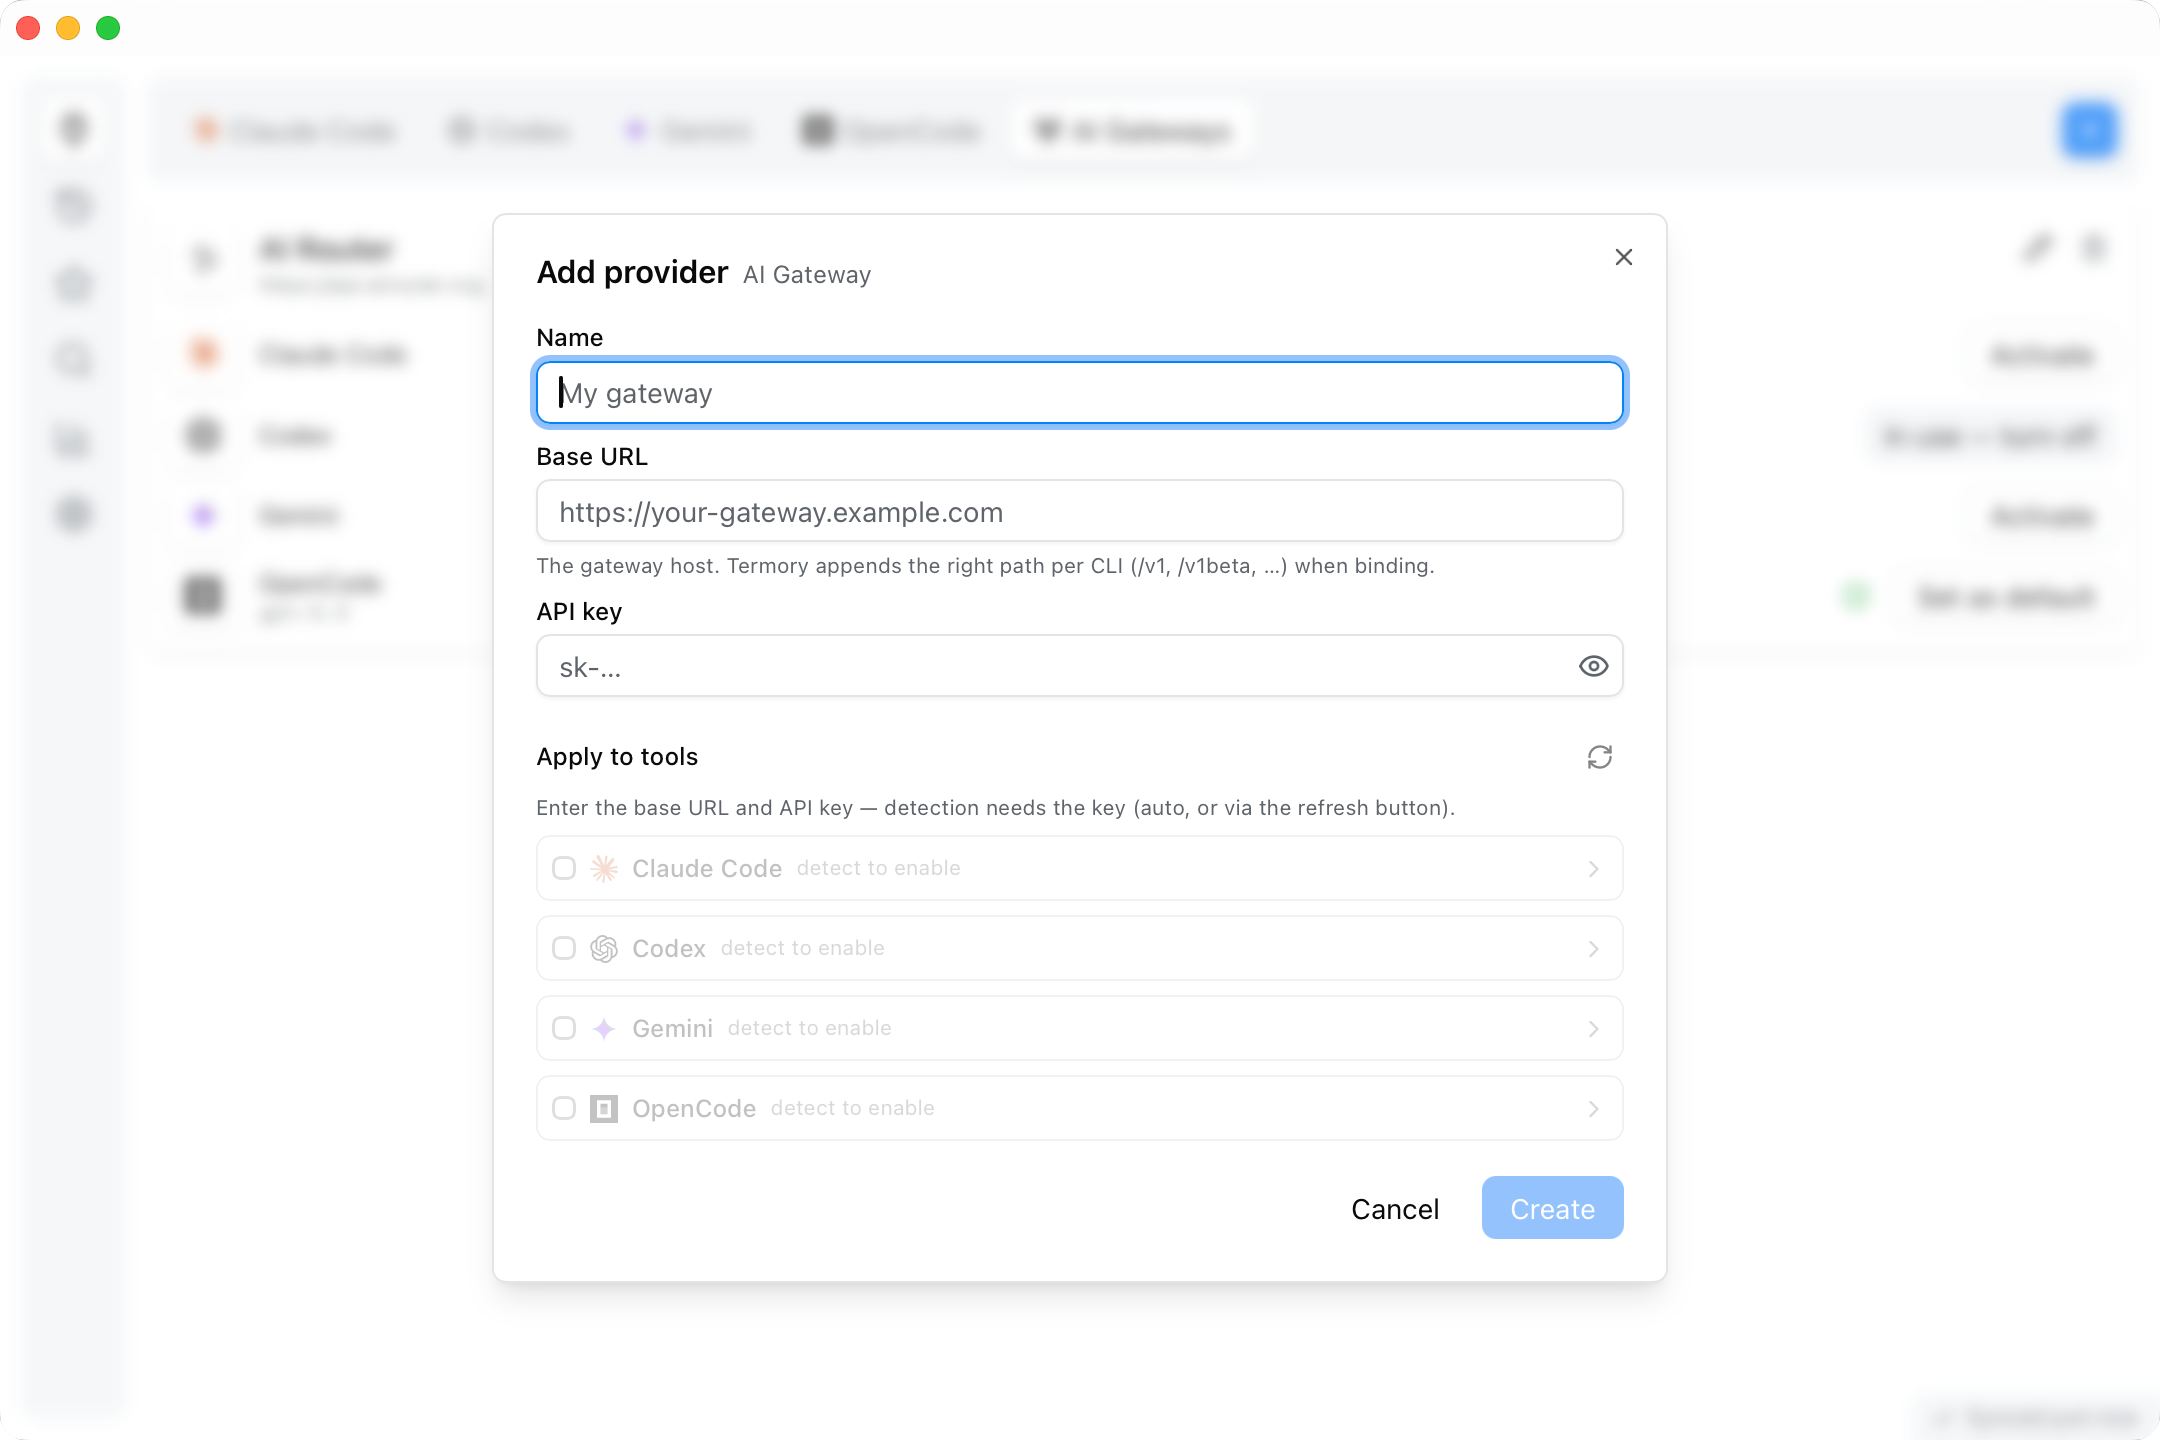
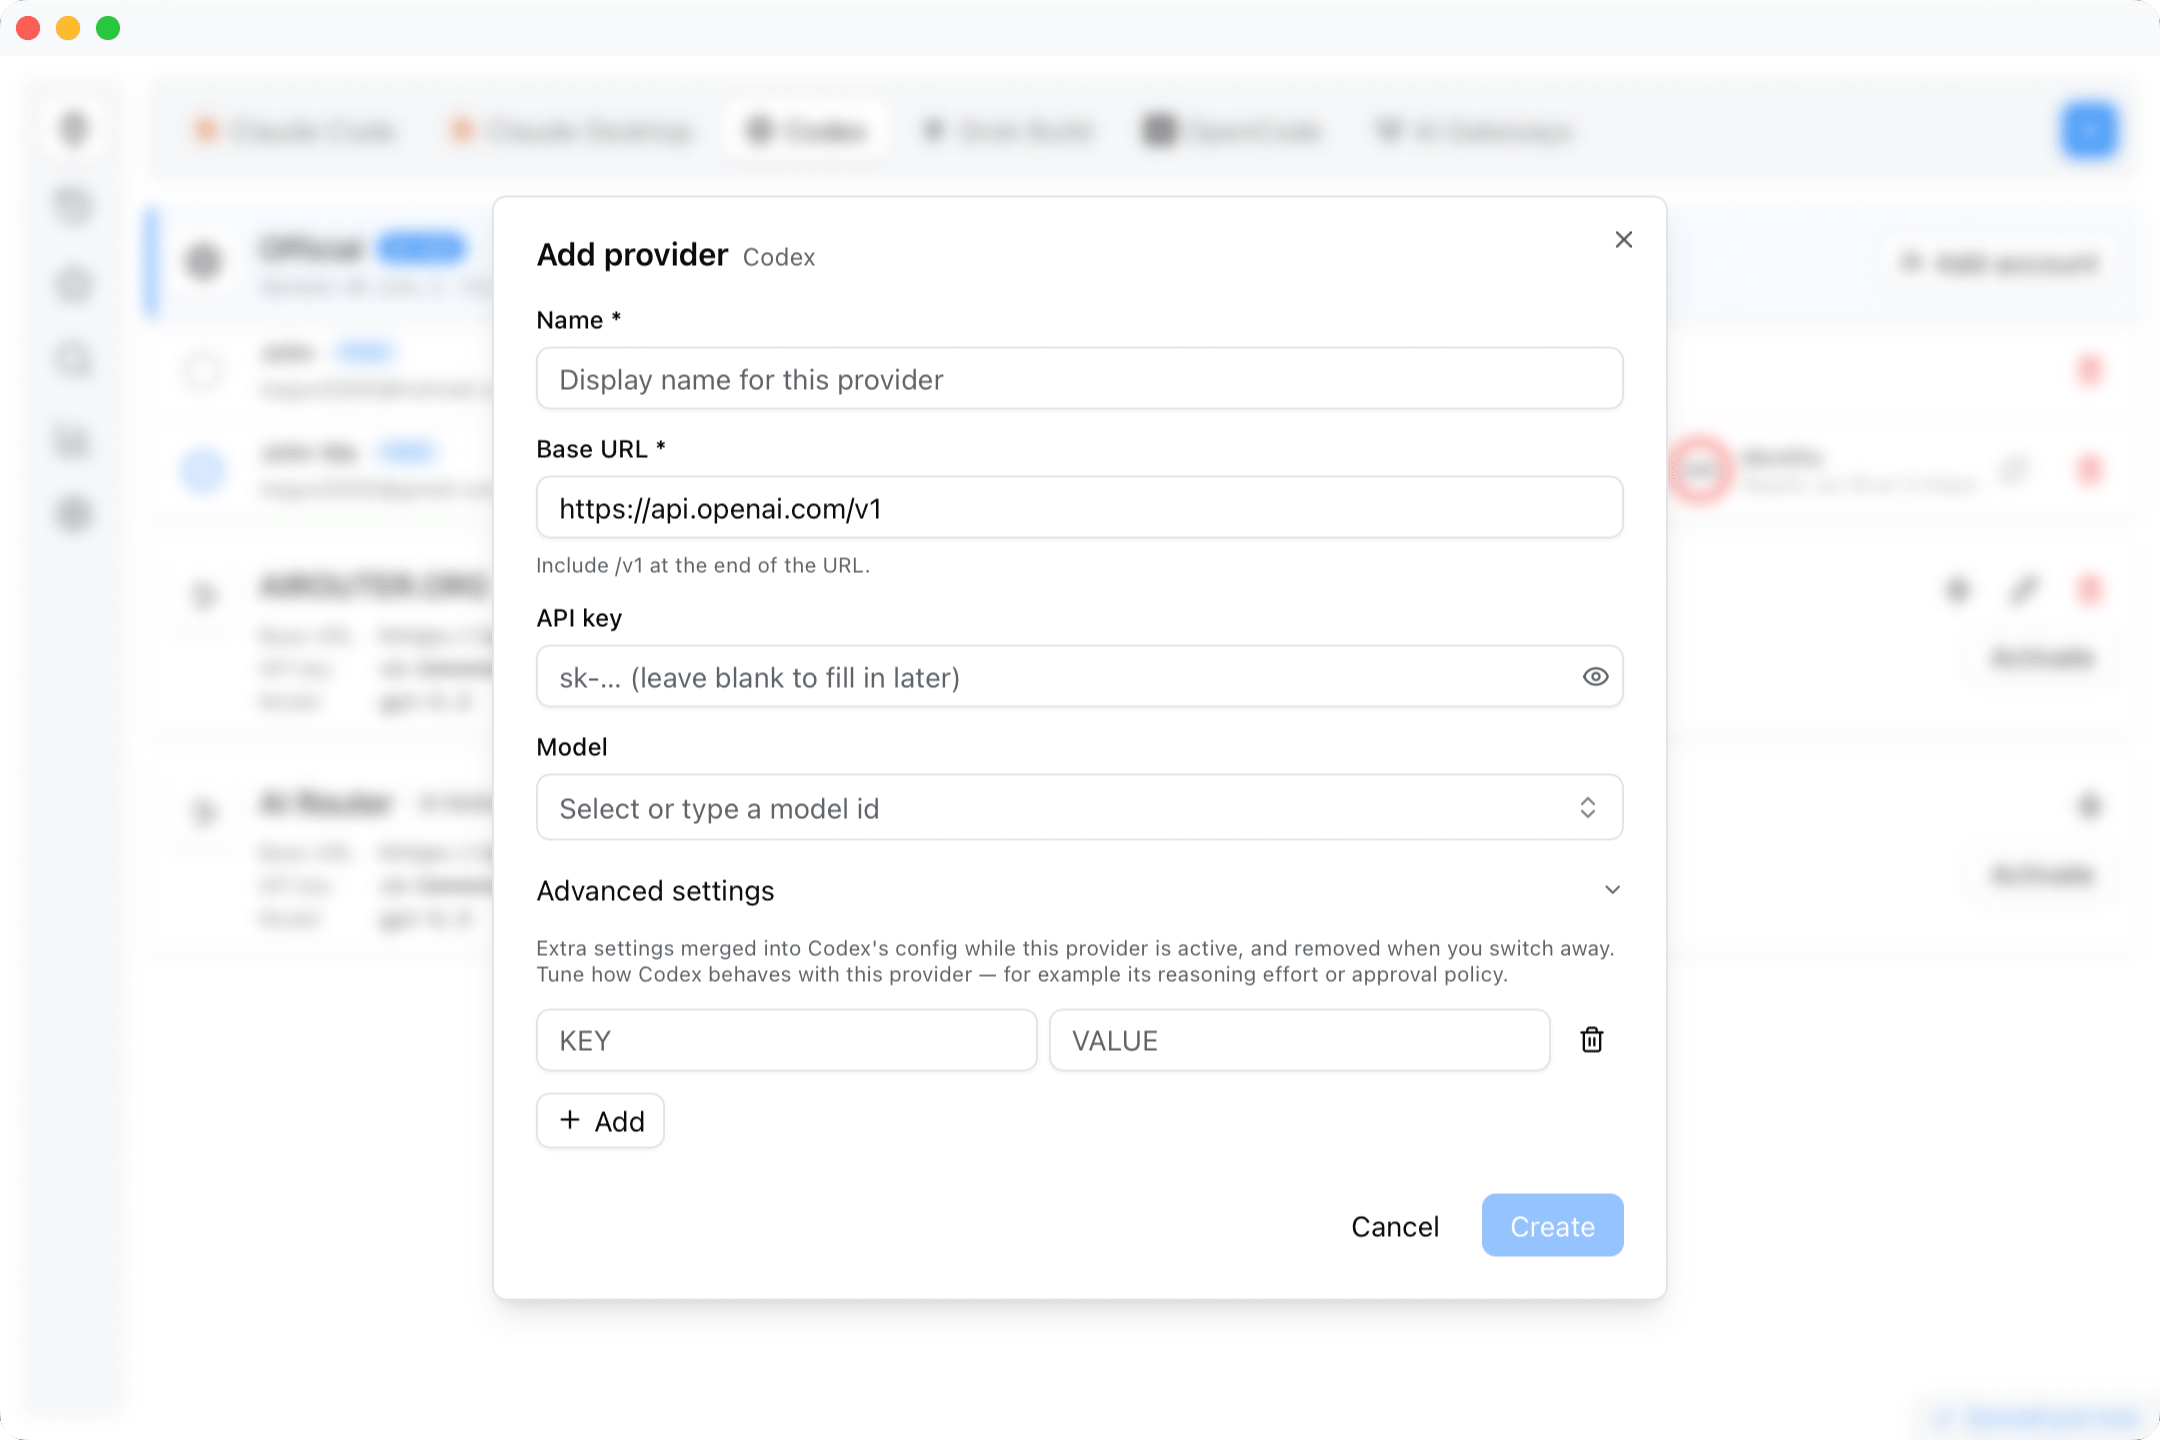
docs(readme): refresh screenshots to a 3×2 grid
Replace the deleted gateways.png with the new provider-switch,
add-gateways, and settings shots; lay all six out one row of three,
two rows.

diff --git a/README.md b/README.md
@@ -21,10 +21,12 @@ Termory brings **Codex**, **Claude Code**, **Gemini CLI**, **OpenCode**, and **G
 ## Screenshots
 
 <div align="center">
-  <img src="docs/screenshots/gateways.png" alt="Termory — one AI gateway bound to every CLI" width="49%">
-  <img src="docs/screenshots/providers.png" alt="Termory — switch any CLI between API providers" width="49%">
-  <img src="docs/screenshots/stats.png" alt="Termory — usage stats across every tool" width="49%">
-  <img src="docs/screenshots/add-provider.png" alt="Termory — add a provider or gateway in seconds" width="49%">
+  <img src="docs/screenshots/providers.png" alt="Termory — switch any CLI between API providers" width="32%">
+  <img src="docs/screenshots/provider-switch.png" alt="Termory — switch a CLI's provider in a click" width="32%">
+  <img src="docs/screenshots/add-provider.png" alt="Termory — add a provider or gateway in seconds" width="32%">
+  <img src="docs/screenshots/add-gateways.png" alt="Termory — one AI gateway bound to every CLI" width="32%">
+  <img src="docs/screenshots/stats.png" alt="Termory — usage stats across every tool" width="32%">
+  <img src="docs/screenshots/settings.png" alt="Termory — settings and per-tool toggles" width="32%">
 </div>
 
 ## Features
